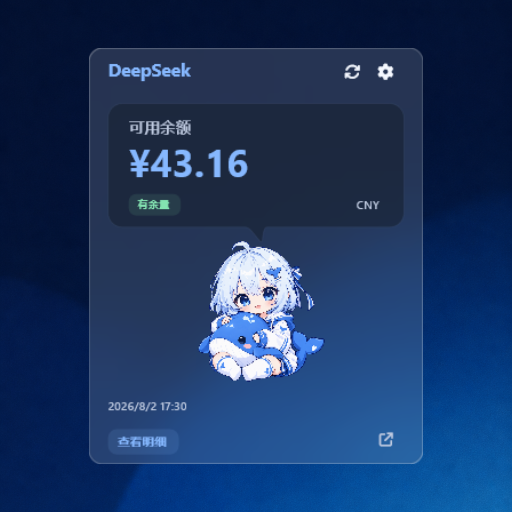
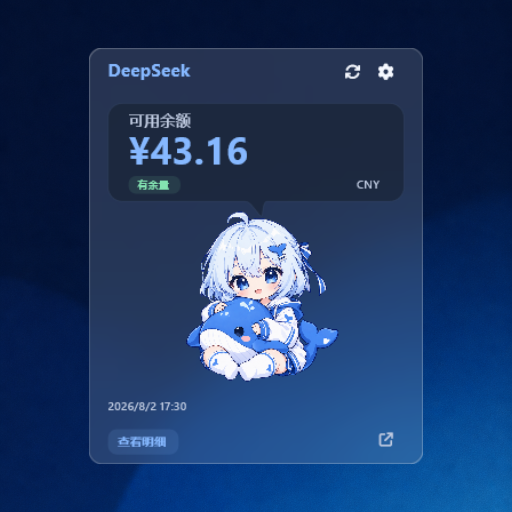
try(widget): 调整密钥输入与小鲸鱼布局（编译通过，待验证） / Adjust key input and whale layout (build passed, validation pending)
中文：
- 密码框改为 Enter 或失焦提交，保留有焦点的掩码草稿，并接入原生文本命令菜单；菜单弹出期间延迟提交。继续使用现有加密 SecretStore。
- 社区组件更名为“小鲸鱼余额查询”，放宽比例限制，增大小鲸鱼，增加横向布局并更新封面。

English:
- Commit password drafts on Enter or focus loss, preserve focused masked drafts, and add the native text command menu with deferred commits during flyouts. Keep the existing encrypted SecretStore.
- Rename the community component to Little Whale Balance Checker, relax aspect limits, enlarge the whale, add landscape layouts, and update its cover.

验证 / Validation:
- scripts/build.bat ready-and-wait widget-password-editor -Batch 64e820a0f60249849058876961395d0a -Revision 0 -ReloadShell -WaitSeconds 1800: 标准 Release 编译阶段完成并生成 SnowDesktop.exe；共享流水线因一项测试失败返回 1 / standard Release compilation completed and generated SnowDesktop.exe; shared pipeline returned 1 due to one failed test.
- 应用回归 127/128 通过，167.76 秒；本任务请求的六项测试全部通过。shell_launch_worker 的 Explorer Unicode/空格路径夹具断言失败 / Application regression: 127/128 passed in 167.76 seconds; all six tests requested by this task passed. The Explorer Unicode/spaces fixture assertion in shell_launch_worker failed.
- snowwidget quality: 0 errors, 0 warnings; snowwidget test: 8/8 passed; pack and archive validation passed. Renderer previews inspected for regular, narrow, and landscape layouts / 组件质量、8 个测试、打包与包校验通过，已目检普通、窄和横向渲染预览。

限制 / Limitations:
[…]

diff --git a/src/winui/widget_settings_presenter.cpp b/src/winui/widget_settings_presenter.cpp
@@ -228,6 +228,7 @@ struct WidgetFieldControl
 
     muxc::TextBox text{nullptr};
     muxc::PasswordBox password{nullptr};
+    muxc::TextCommandBarFlyout passwordFlyout{nullptr};
     muxc::ToggleSwitch toggle{nullptr};
     muxc::Grid numericEditors{nullptr};
     muxc::Slider slider{nullptr};
@@ -250,6 +251,7 @@ struct WidgetFieldControl
 
     winrt::event_token textChanged{};
     winrt::event_token passwordChanged{};
+    winrt::event_token passwordFlyoutClosed{};
     winrt::event_token lostFocus{};
     winrt::event_token keyDown{};
     winrt::event_token toggled{};
@@ -1303,12 +1305,25 @@ struct WidgetSettingsPresenter::Impl
             mux::HorizontalAlignment::Stretch);
         field.password.PasswordRevealMode(
             muxc::PasswordRevealMode::Peek);
+        // Give island-hosted password controls the native text-command menu.
+        // WinUI owns clipboard handling and omits unsafe password commands.
+        field.passwordFlyout = muxc::TextCommandBarFlyout{};
+        field.password.ContextFlyout(field.passwordFlyout);
         field.idleCommitTimer = mux::DispatcherTimer{};
-        field.idleCommitTimer.Interval(std::chrono::milliseconds(650));
+        field.idleCommitTimer.Interval(std::chrono::milliseconds(100));
         field.idleCommitTick = field.idleCommitTimer.Tick(
             [this, &field](const auto&, const auto&) {
                 field.idleCommitTimer.Stop();
-                (void)CommitPassword(field);
+                // A context menu temporarily owns keyboard focus. Wait for
+                // dismissal and focus restoration before finalizing a draft.
+                if (field.password.FocusState() == mux::FocusState::Unfocused &&
+                    !field.passwordFlyout.IsOpen())
+                    (void)CommitPassword(field);
+            });
+        field.passwordFlyoutClosed = field.passwordFlyout.Closed(
+            [&field](const auto&, const auto&) {
+                if (field.password.FocusState() == mux::FocusState::Unfocused)
+                    field.idleCommitTimer.Start();
             });
         field.passwordChanged = field.password.PasswordChanged(
             [this, &field](const auto&, const auto&) {
@@ -1316,12 +1331,11 @@ struct WidgetSettingsPresenter::Impl
                 field.passwordDirty = true;
                 field.draftError.clear();
                 RefreshFieldValidation(field);
-                field.idleCommitTimer.Stop();
-                field.idleCommitTimer.Start();
             });
         field.lostFocus = field.password.LostFocus(
-            [this, &field](const auto&, const auto&) {
-                (void)CommitPassword(field);
+            [&field](const auto&, const auto&) {
+                field.idleCommitTimer.Stop();
+                field.idleCommitTimer.Start();
             });
         field.keyDown = field.password.KeyDown(
             [this, &field](const auto&,
@@ -2104,7 +2118,12 @@ struct WidgetSettingsPresenter::Impl
         }
         if (field.password)
         {
-            if (!field.passwordDirty)
+            field.password.PlaceholderText(state.opaque.configured
+                ? L("app.settings.widget.configured", L"Configured")
+                : L("app.settings.widget.not_configured", L"Not configured"));
+            if (!field.passwordDirty &&
+                field.password.FocusState() == mux::FocusState::Unfocused &&
+                !field.passwordFlyout.IsOpen())
             {
                 field.synchronizing = true;
                 field.password.Password(L"");
@@ -2582,7 +2601,17 @@ struct WidgetSettingsPresenter::Impl
     {
         if (field.idleCommitTimer) field.idleCommitTimer.Stop();
         if (!field.passwordDirty)
+        {
+            if (field.password &&
+                field.password.FocusState() == mux::FocusState::Unfocused &&
+                !field.passwordFlyout.IsOpen())
+            {
+                field.synchronizing = true;
+                field.password.Password(L"");
+                field.synchronizing = false;
+            }
             return UnchangedResult();
+        }
         if (!CanFinalizeField(field) || !field.password)
         {
             return {wr::WidgetSettingMutationStatus::Disabled,
@@ -2600,9 +2629,16 @@ struct WidgetSettingsPresenter::Impl
         {
             if (result.Succeeded())
             {
-                current->second->synchronizing = true;
-                current->second->password.Password(L"");
-                current->second->synchronizing = false;
+                // Keep the user's masked draft while the control owns focus;
+                // a successful Enter must not truncate subsequent editing.
+                if (current->second->password.FocusState() ==
+                        mux::FocusState::Unfocused &&
+                    !current->second->passwordFlyout.IsOpen())
+                {
+                    current->second->synchronizing = true;
+                    current->second->password.Password(L"");
+                    current->second->synchronizing = false;
+                }
             }
             else
             {
@@ -3206,6 +3242,11 @@ struct WidgetSettingsPresenter::Impl
                 field.text.TextChanged(field.textChanged);
             if (field.password && HasToken(field.passwordChanged))
                 field.password.PasswordChanged(field.passwordChanged);
+            if (field.passwordFlyout)
+            {
+                if (HasToken(field.passwordFlyoutClosed))
+                    field.passwordFlyout.Closed(field.passwordFlyoutClosed);
+            }
             if (field.text && HasToken(field.lostFocus))
                 field.text.LostFocus(field.lostFocus);
             if (field.password && HasToken(field.lostFocus))
@@ -3214,6 +3255,7 @@ struct WidgetSettingsPresenter::Impl
                 field.text.KeyDown(field.keyDown);
             if (field.password && HasToken(field.keyDown))
                 field.password.KeyDown(field.keyDown);
+            if (field.passwordFlyout) field.passwordFlyout.Hide();
             if (field.toggle && HasToken(field.toggled))
                 field.toggle.Toggled(field.toggled);
             if (field.slider && HasToken(field.sliderChanged))
